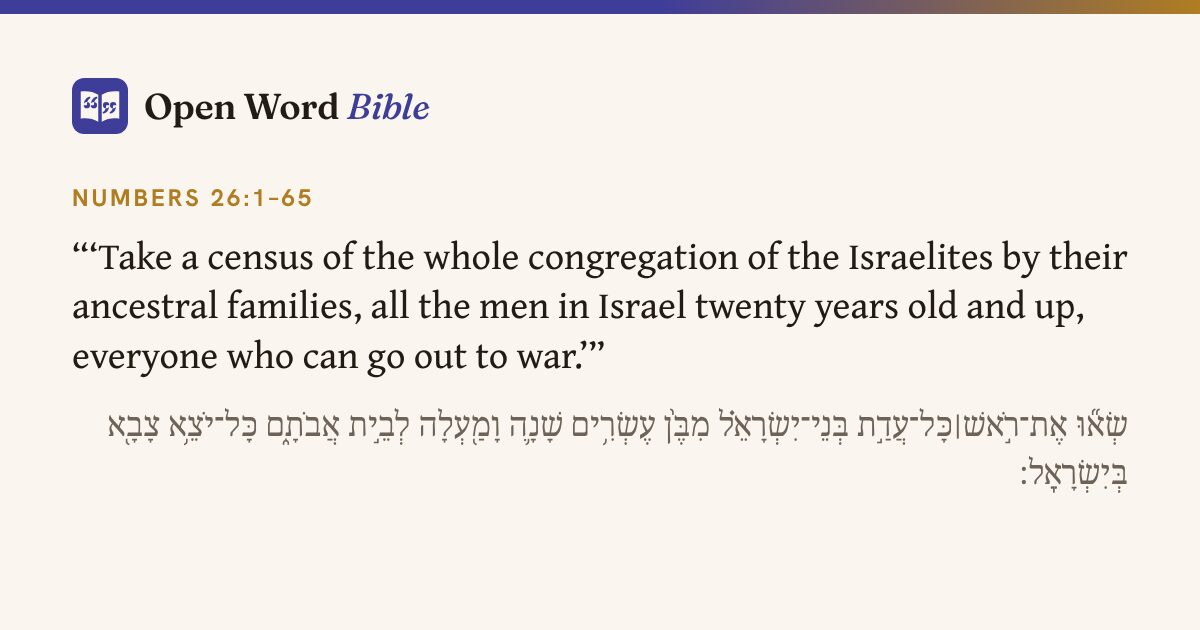
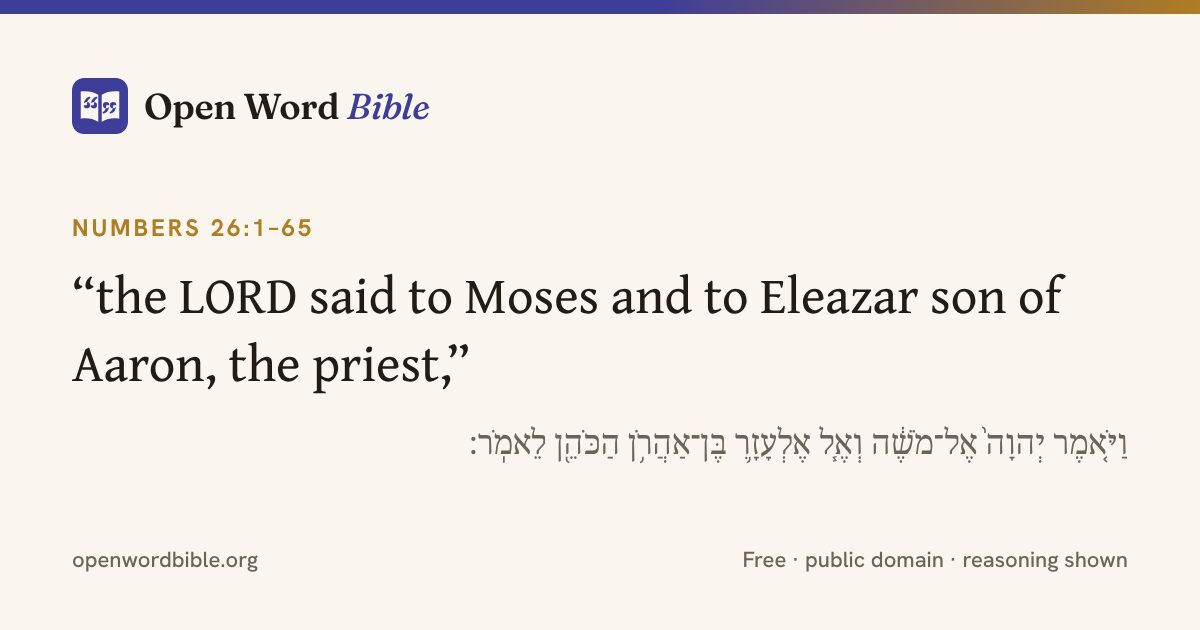
Versification: fix three Hebrew half-verses, add NIV reader numbering (#1088)
* Versification: fix three Hebrew half-verses and add NIV reader numbering

The OSHB verse map pairs only the second half of Numbers 26:1, 1 Samuel
20:42 and 1 Chronicles 12:4, so the first Hebrew half looked like a psalm
title with no English verse. OLD_TESTAMENT_HALVES maps them by hand.

to_niv()/from_niv()/niv_ids() give the numbering the site will show
readers: the English numbering, except that 3 John keeps verse 15 as the
NIV and the SBLGNT do.

Claude-Session: https://claude.ai/code/session_018ibb9tkv7Ho93pYqoVtHwk

* Regenerate cross-references and the Numbers 26 card for the half-verses

Claude-Session: https://claude.ai/code/session_018ibb9tkv7Ho93pYqoVtHwk

---------

diff --git a/owb/versification.py b/owb/versification.py
@@ -14,7 +14,12 @@ English counterpart is not the verse with the same id: {"PSA.3.1": [],
 counterpart (a psalm title, which English Bibles print unnumbered above
 verse 1). Under "not_in_hebrew" are the English verse ids the WLC has no verse
 for (GEN.31.55 is Hebrew GEN.32.1). Any other verse is numbered the same in
-both, except the few New Testament verses in NEW_TESTAMENT below.
+both, except the few New Testament verses in NEW_TESTAMENT below and the
+three Hebrew half-verses in OLD_TESTAMENT_HALVES, which the verse map leaves
+out.
+
+The site shows readers the NIV's numbering (to_niv(), from_niv()), which is
+the English numbering but for 3 John 15.
 
 The file is derived by scripts/build_versification.py from the Open
 Scriptures Hebrew Bible's wlc/VerseMap.xml (CC BY 4.0), keeping only verses
@@ -49,12 +54,28 @@ NEW_TESTAMENT = {
 # English verse ids those leave with no SBLGNT verse of their own number.
 NEW_TESTAMENT_ABSENT = ("ACT.19.41", "2CO.13.14")
 
+# Three Hebrew verses that are the first half of an English verse whose second
+# half is the next Hebrew verse. VerseMap.xml pairs only the second half
+# (1Sam.21.1 -> 1Sam.20.42), which leaves the first looking like a psalm
+# title with no English verse; written by hand, against the KJV's text.
+OLD_TESTAMENT_HALVES = {
+    "NUM.26.1": ("NUM.26.1",),    # Hebrew 25:19 "after the plague" + 26:1 = English 26:1
+    "1SA.20.42": ("1SA.20.42",),  # Hebrew 20:42 + 21:1 = English 20:42
+    "1CH.12.4": ("1CH.12.4",),    # Hebrew 12:4 + 12:5 = English 12:4
+}
+
+# Reader numbering: what the site shows readers, the NIV's. It is the
+# English (KJV) numbering above except in 3 John, where the NIV, like the
+# SBLGNT, has a verse 15 ("Peace to you ..."), so our verses keep their own
+# numbers there.
+NIV_AS_SOURCE = ("3JN.1.15",)
+
 
 @lru_cache(maxsize=None)
 def _tables():
     data = json.loads(DATA.read_text(encoding="utf-8"))
     english = {refs.parse(h): tuple(refs.parse(e) for e in es)
-               for h, es in (data["english"] | NEW_TESTAMENT).items()}
+               for h, es in (data["english"] | OLD_TESTAMENT_HALVES | NEW_TESTAMENT).items()}
     absent = {refs.parse(e) for e in (*data["not_in_hebrew"], *NEW_TESTAMENT_ABSENT)}
     source, chapters = defaultdict(list), defaultdict(set)
     for h, es in english.items():
@@ -83,6 +104,29 @@ def english_ids(verse_ids):
     out = []
     for verse_id in verse_ids:
         for ref in to_english(refs.parse(verse_id)):
+            if str(ref) not in out:
+                out.append(str(ref))
+    return out
+
+
+def to_niv(ref):
+    """The verses in reader (NIV) numbering that hold one of our verses:
+    to_english() except where the NIV numbers as the SBLGNT does."""
+    return (ref,) if str(ref) in NIV_AS_SOURCE else to_english(ref)
+
+
+def from_niv(ref):
+    """Our verses that hold one verse in reader (NIV) numbering."""
+    if str(ref) in NIV_AS_SOURCE:
+        return (ref,)
+    return tuple(r for r in to_source(ref) if str(r) not in NIV_AS_SOURCE)
+
+
+def niv_ids(verse_ids):
+    """The reader (NIV) verse ids for a list of our verse ids, in order, each once."""
+    out = []
+    for verse_id in verse_ids:
+        for ref in to_niv(refs.parse(verse_id)):
             if str(ref) not in out:
                 out.append(str(ref))
     return out

diff --git a/tests/test_versification.py b/tests/test_versification.py
@@ -67,6 +67,36 @@ class VersificationTest(unittest.TestCase):
         self.assertEqual(ids(versification.to_english(ref("JHN.3.16"))), ["JHN.3.16"])
         self.assertEqual(versification.english_chapters("REV", 12), [12, 13])
 
+    def test_hebrew_half_verses(self):
+        # Two Hebrew verses that make one English verse, which the verse map
+        # pairs only by their second half (OLD_TESTAMENT_HALVES).
+        for first, second, english in (("NUM.25.19", "NUM.26.1", "NUM.26.1"),
+                                       ("1SA.20.42", "1SA.21.1", "1SA.20.42"),
+                                       ("1CH.12.4", "1CH.12.5", "1CH.12.4")):
+            with self.subTest(english):
+                self.assertEqual(ids(versification.to_english(ref(first))), [english])
+                self.assertEqual(ids(versification.to_english(ref(second))), [english])
+                self.assertEqual(ids(versification.to_source(ref(english))), [first, second])
+
+    def test_only_psalm_titles_have_no_english_number(self):
+        hebrew = set(macula_hebrew.verses())
+        unnumbered = {h.book for h in hebrew if not versification.to_english(h)}
+        self.assertEqual(unnumbered, {"PSA"})
+
+    def test_niv_numbering(self):
+        # The NIV numbers as the KJV does, except that 3 John has a verse 15.
+        self.assertEqual(ids(versification.to_niv(ref("3JN.1.15"))), ["3JN.1.15"])
+        self.assertEqual(ids(versification.from_niv(ref("3JN.1.15"))), ["3JN.1.15"])
+        self.assertEqual(ids(versification.from_niv(ref("3JN.1.14"))), ["3JN.1.14"])
+        for verse_id, niv in (("MAL.3.19", ["MAL.4.1"]), ("JOL.3.1", ["JOL.2.28"]), ("PSA.3.1", []),
+                              ("PSA.51.3", ["PSA.51.1"]), ("2CO.13.13", ["2CO.13.14"]),
+                              ("REV.12.18", ["REV.13.1"]), ("ISA.63.19", ["ISA.63.19", "ISA.64.1"]),
+                              ("JHN.3.16", ["JHN.3.16"])):
+            with self.subTest(verse_id):
+                self.assertEqual(ids(versification.to_niv(ref(verse_id))), niv)
+        self.assertEqual(versification.niv_ids(["3JN.1.14", "3JN.1.15", "MAL.3.19"]),
+                         ["3JN.1.14", "3JN.1.15", "MAL.4.1"])
+
     def test_derive_from_a_verse_map(self):
         xml = """<verseMap><book osisID="Ps">
         <verse wlc="Ps.3.2" kjv="Ps.3.1" type="full"/><verse wlc="Ps.3.3" kjv="Ps.3.2" type="full"/>
